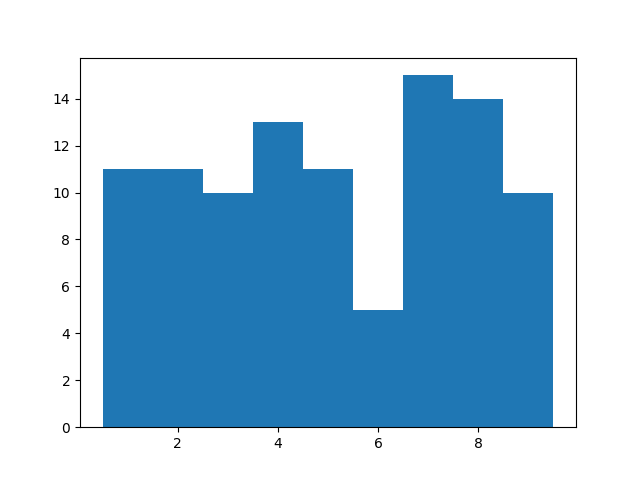
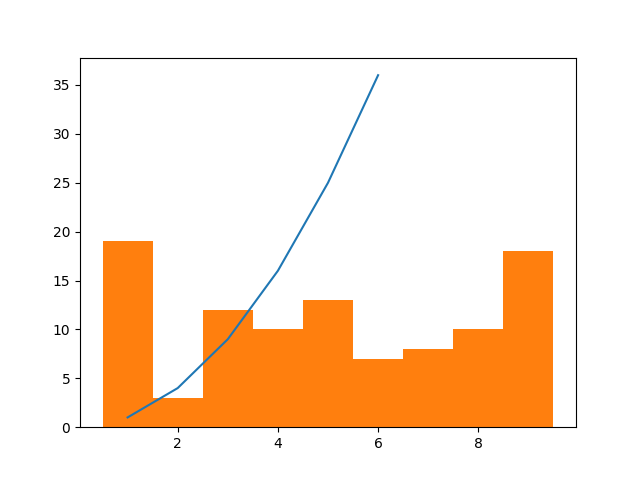
after class

diff --git a/lecture32-data-scraping2/in_class.py b/lecture32-data-scraping2/in_class.py
@@ -1,0 +1,48 @@
+import requests
+import bs4
+
+html = '''
+<html>
+<table id="degrees" border="1">
+    <thead> 
+    <tr><th>Academic Year</th><th>Bachelors</th>
+        <th>Masters</th><th>Doctoral</th><th>Total</th></tr>
+    </thead>
+    <tr><td>2021-2022</td><td>6406</td>
+        <td>1128</td><td>233</td><td>7767</td></tr>
+    <tr><td>2020-2021</td><td>6683</td><td>959</td>
+        <td>192</td><td>7834</td></tr>
+    <tr><td>2019-2022</td><td>6684</td>
+        <td>1033</td><td>212</td><td>7929</td></tr>
+    <tr><td>1896-1897</td><td>1</td>
+        <td>0</td><td>0</td><td>1</td></tr>
+</table>
+
+<table> </table>
+</html>
+'''
+soup = bs4.BeautifulSoup(html, 'html.parser')
+
+table = soup.find('table', {'id': 'degrees'})
+
+html_headers = table.find_all('th')
+
+python_headers = []
+for header in html_headers:
+    python_headers.append(header.text)
+
+print(python_headers)
+
+python_data = [[],[],[],[],[]]
+
+table_rows = table.find_all('tr')
+
+for row in table_rows:
+    columns = row.find_all("td")
+    index = 0
+    for col in columns:
+        python_data[index].append(col.string)
+        index += 1
+
+print(python_data)
+

diff --git a/lecture33-data-visualization/in_class.py b/lecture33-data-visualization/in_class.py
@@ -1,0 +1,36 @@
+import matplotlib.pyplot as plt
+import random
+
+
+# x_points = [1,2,3,4,5,6]
+# y_points = [1,4,9,16,25,36]
+# x2_points = [-3,-2,-1,0,1,2,3,4,5,6]
+# y2_points = [-27,-8,-1,0,1,8,27,64,125,216]
+
+# plt.plot(x_points, y_points, label='squares')
+# plt.plot(x2_points, y2_points, label='cubes')
+
+# plt.plot([random.randint(-10,300) for x in range(10)], 'r', label='red random')
+# plt.plot([random.randint(-10,300) for x in range(10)], 'b')
+# plt.plot([random.randint(-10,300) for x in range(10)], 'c')
+
+# plt.title("Squares and Cubes")
+# plt.xlabel("x")
+# plt.ylabel("f(x)")
+# plt.legend()
+# plt.xlim(0,10)
+# plt.show()
+
+numbers = [random.randrange(1,10) for i in range(100)]
+bin_vals = [0.5,1.5,2.5,3.5,4.5,5.5,6.5,7.5,8.5,9.5]
+plt.hist(numbers, bins=bin_vals)
+plt.savefig("myHistogram.png")
+plt.clf()
+
+plt.plot([1,2,3,4,5,6], [1,4,9,16,25,36])
+plt.savefig("squares.png")
+
+numbers = [random.randrange(1,10) for i in range(100)]
+bins = [0.5,1.5,2.5,3.5,4.5,5.5,6.5,7.5,8.5,9.5]
+plt.hist(numbers, bins=bins)
+plt.savefig("counts.png")

diff --git a/lecture32-data-scraping2/image_download.py b/lecture32-data-scraping2/image_download.py
@@ -2,11 +2,13 @@ import shutil
 import requests
 
 
-imageURL = 'https://wallpapers.com/images/hd/avatar-the-last-airbender-pictures-n64tz1hvcd7gjqh1.jpg'
+# imageURL = 'https://wallpapers.com/images/hd/avatar-the-last-airbender-pictures-n64tz1hvcd7gjqh1.jpg'
 
+
+imageURL = 'https://i.pinimg.com/originals/8d/31/cc/8d31cca1c749792b9aaa7fd64499d888.jpg'
 image_response = requests.get(imageURL, stream=True)
 
-output_filename = 'downloaded_image.jpg'
+output_filename = 'avatar.jpg'
 with open(output_filename, 'wb') as out_file:
     shutil.copyfileobj(image_response.raw, out_file)
 del image_response    # this frees up the memory (optional)
